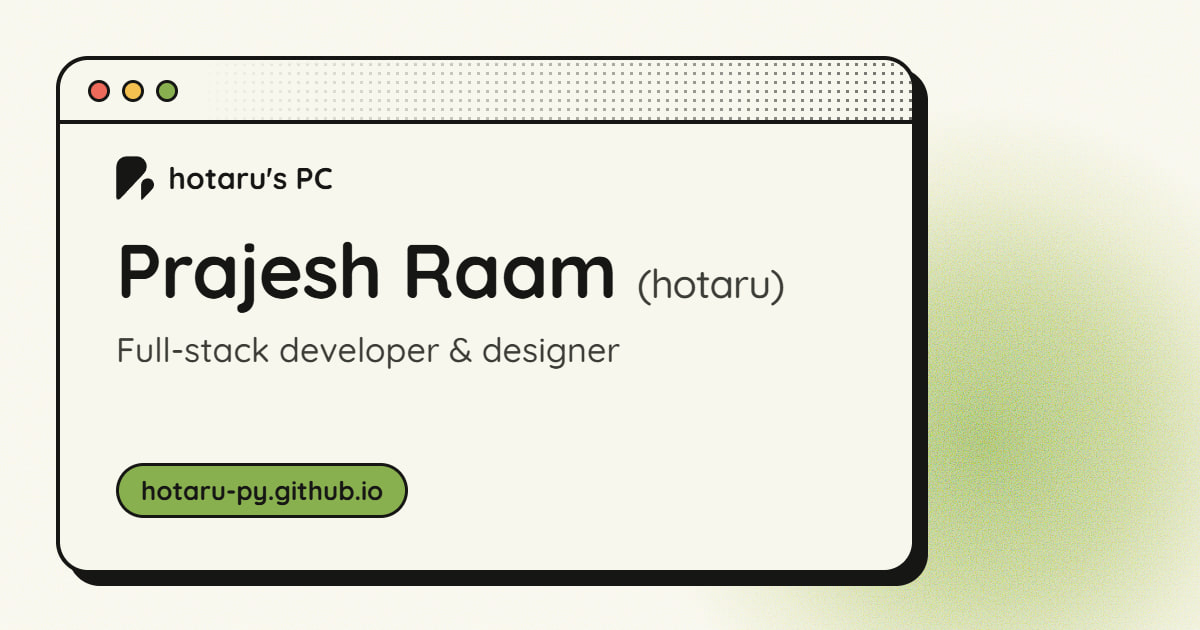
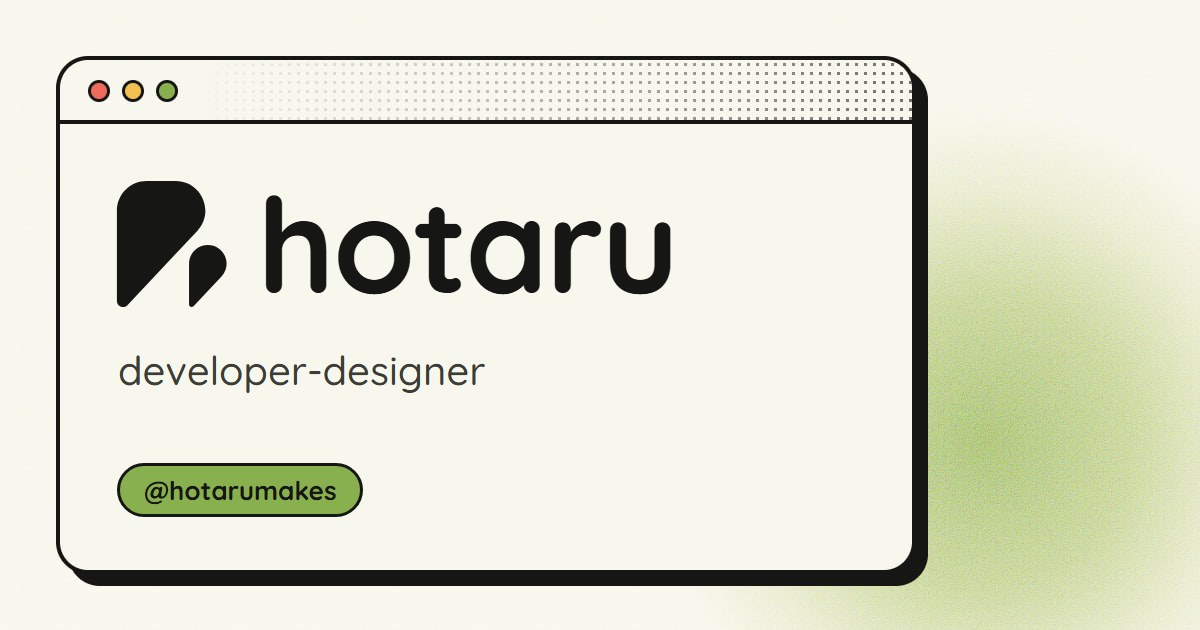
some branding changes

diff --git a/src/Components/reach.svelte b/src/Components/reach.svelte
@@ -10,6 +10,8 @@
     email: `<svg xmlns="http://www.w3.org/2000/svg" width="24" height="24" viewBox="0 0 24 24" fill="currentColor"><rect x="1" y="4" width="22" height="16" rx="3.5"/><path d="M5 8.5l7 5 7-5" fill="none" style="stroke: var(--color-paper)" stroke-width="2" stroke-linecap="round" stroke-linejoin="round"/></svg>`,
     github: `<svg xmlns="http://www.w3.org/2000/svg" width="24" height="24" viewBox="0 0 24 24" fill="currentColor"><path d="M12 0c-6.626 0-12 5.373-12 12 0 5.302 3.438 9.8 8.207 11.387.599.111.793-.261.793-.577v-2.234c-3.338.726-4.033-1.416-4.033-1.416-.546-1.387-1.333-1.756-1.333-1.756-1.089-.745.083-.729.083-.729 1.205.084 1.839 1.237 1.839 1.237 1.07 1.834 2.807 1.304 3.492.997.107-.775.418-1.305.762-1.604-2.665-.305-5.467-1.334-5.467-5.931 0-1.311.469-2.381 1.236-3.221-.124-.303-.535-1.524.117-3.176 0 0 1.008-.322 3.301 1.23.957-.266 1.983-.399 3.003-.404 1.02.005 2.047.138 3.006.404 2.291-1.552 3.297-1.23 3.297-1.23.653 1.653.242 2.874.118 3.176.77.84 1.235 1.911 1.235 3.221 0 4.609-2.807 5.624-5.479 5.921.43.372.823 1.102.823 2.222v3.293c0 .319.192.694.801.576 4.765-1.589 8.199-6.086 8.199-11.386 0-6.627-5.373-12-12-12z"/></svg>`,
     behance: `<svg xmlns="http://www.w3.org/2000/svg" width="24" height="24" viewBox="0 0 24 24" fill="currentColor"><rect width="24" height="24" rx="5"/><path transform="translate(3.6 3.6) scale(0.7)" style="fill: var(--color-paper)" d="M16.969 16.927a2.561 2.561 0 0 0 1.901.677 2.501 2.501 0 0 0 1.531-.475c.362-.235.636-.584.779-.99h2.585a5.091 5.091 0 0 1-1.9 2.896 5.292 5.292 0 0 1-3.091.88 5.839 5.839 0 0 1-2.284-.433 4.871 4.871 0 0 1-1.723-1.211 5.657 5.657 0 0 1-1.08-1.874 7.057 7.057 0 0 1-.383-2.393c-.005-.8.129-1.595.396-2.349a5.313 5.313 0 0 1 5.088-3.604 4.87 4.87 0 0 1 2.376.563c.661.362 1.231.87 1.668 1.485a6.2 6.2 0 0 1 .943 2.133c.194.821.263 1.666.205 2.508h-7.699c-.063.79.184 1.574.688 2.187ZM6.947 4.084a8.065 8.065 0 0 1 1.928.198 4.29 4.29 0 0 1 1.49.638c.418.303.748.711.958 1.182.241.579.357 1.203.341 1.83a3.506 3.506 0 0 1-.506 1.961 3.726 3.726 0 0 1-1.503 1.287 3.588 3.588 0 0 1 2.027 1.437c.464.747.697 1.615.67 2.494a4.593 4.593 0 0 1-.423 2.032 3.945 3.945 0 0 1-1.163 1.413 5.114 5.114 0 0 1-1.683.807 7.135 7.135 0 0 1-1.928.259H0V4.084h6.947Zm-.235 12.9c.308.004.616-.029.916-.099a2.18 2.18 0 0 0 .766-.332c.228-.158.411-.371.534-.619.142-.317.208-.663.191-1.009a2.08 2.08 0 0 0-.642-1.715 2.618 2.618 0 0 0-1.696-.505h-3.54v4.279h3.471Zm13.635-5.967a2.13 2.13 0 0 0-1.654-.619 2.336 2.336 0 0 0-1.163.259 2.474 2.474 0 0 0-.738.62 2.359 2.359 0 0 0-.396.792c-.074.239-.12.485-.137.734h4.769a3.239 3.239 0 0 0-.679-1.785l-.002-.001Zm-13.813-.648a2.254 2.254 0 0 0 1.423-.433c.399-.355.607-.88.56-1.413a1.916 1.916 0 0 0-.178-.891 1.298 1.298 0 0 0-.495-.533 1.851 1.851 0 0 0-.711-.274 3.966 3.966 0 0 0-.835-.073H3.241v3.631h3.293v-.017ZM21.62 5.122h-5.976v1.527h5.976V5.122Z"/></svg>`,
+    // Rounded square with the camera outline knocked out, like the other filled icons
+    instagram: `<svg xmlns="http://www.w3.org/2000/svg" width="24" height="24" viewBox="0 0 24 24" fill="currentColor"><rect width="24" height="24" rx="6"/><rect x="5" y="5" width="14" height="14" rx="4.5" fill="none" style="stroke: var(--color-paper)" stroke-width="2"/><circle cx="12" cy="12" r="3.2" fill="none" style="stroke: var(--color-paper)" stroke-width="2"/><circle cx="16.4" cy="7.6" r="1.15" style="fill: var(--color-paper)"/></svg>`,
     youtube: `<svg xmlns="http://www.w3.org/2000/svg" width="24" height="24" viewBox="0 0 24 24" fill="currentColor"><path d="M19.615 3.184c-3.604-.246-11.631-.245-15.23 0-3.897.266-4.356 2.62-4.385 8.816.029 6.185.484 8.549 4.385 8.816 3.6.245 11.626.246 15.23 0 3.897-.266 4.356-2.62 4.385-8.816-.029-6.185-.484-8.549-4.385-8.816zm-10.615 12.816v-8l8 3.993-8 4.007z"/></svg>`,
   };
 </script>
@@ -25,7 +27,7 @@
       >
         <div class="browser-row">
           <div class="browser-icon">
-            {@html ICONS[method.id]}
+            {@html ICONS[method.icon ?? method.id]}
           </div>
           <h3 class="browser-name">{method.name}</h3>
           <a

diff --git a/src/lib/siteContent.js b/src/lib/siteContent.js
@@ -6,16 +6,18 @@
 
 export const site = {
   url: "https://hotaru-py.github.io/",
-  name: "Prajesh Raam",
-  handle: "hotaru",
-  title: "Prajesh Raam, full-stack developer & designer",
+  name: "hotaru",
+  handle: "hotarumakes",
+  title: "hotaru | i make stuff that looks good (to me)",
   description:
-    "Portfolio of Prajesh Raam (hotaru): full-stack developer, designer and artist. Live websites, personal projects, skills and links, presented as a playful desktop or a simple text page.",
+    "Portfolio of hotaru: full-stack developer, designer and artist. Live websites, personal projects, skills and links, presented as a playful desktop or a simple text page.",
   jobTitle: "Full-stack developer & designer",
 };
 
 export const about = {
-  greeting: "Hello, I'm Prajesh (^_^)/",
+  greeting: "Hello, I'm hotaru (^_^)/",
+  // Shown under the greeting
+  realName: "Prajesh Raam",
   pronouns: "he/him",
   intro: [
     "I'm an engineer by day, designer by night, artist throughout. Currently an undergrad engineering student and a full-stack developer.",
@@ -179,23 +181,34 @@ export const projects = [
   },
 ];
 
-// `id` picks the icon in the Browser window
+// `id` picks the icon in the Browser window (or `icon`, when two share one)
 export const bookmarks = [
+  {
+    id: "youtube",
+    name: "YouTube Channel (this stuff)",
+    url: "https://www.youtube.com/@hotarumakes",
+  },
+  {
+    id: "instagram",
+    name: "Instagram",
+    url: "https://www.instagram.com/hotarumakes",
+  },
   {
     id: "linkedin",
     name: "LinkedIn",
-    url: "https://linkedin.com/in/prajesh-raam",
+    url: "https://linkedin.com/in/prajeshraam",
   },
-  { id: "email", name: "Email", url: "mailto:prajeshraam@gmail.com" },
   { id: "github", name: "GitHub", url: "https://github.com/hotaru-py" },
   {
     id: "behance",
     name: "Behance",
     url: "https://www.behance.net/prajeshraam",
   },
+  { id: "email", name: "Email", url: "mailto:hotarumakes@gmail.com" },
   {
-    id: "youtube",
-    name: "YouTube (random stuff)",
+    id: "youtube-random",
+    icon: "youtube",
+    name: "YouTube Channel (random stuff)",
     url: "https://www.youtube.com/@hotaruuuh",
   },
 ];

diff --git a/src/lib/staticSite.js b/src/lib/staticSite.js
@@ -86,7 +86,7 @@ function structuredData() {
 
 export function renderHeadTags() {
   const image = absolute(OG_IMAGE);
-  const imageAlt = `${site.name} (${site.handle}), ${site.jobTitle}`;
+  const imageAlt = `${site.name}: developer-designer portfolio`;
   // "<" escaped so the JSON can never close the script tag early
   const jsonLd = JSON.stringify(structuredData()).replaceAll("<", "\\u003c");
   return [
@@ -121,12 +121,12 @@ export function renderStaticPage() {
   const li = (html) => `<li>${html}</li>`;
   const html = [
     `<header>`,
-    `<h1>${esc(site.name)} (${esc(site.handle)})</h1>`,
+    `<h1>${esc(site.name)} (${esc(about.realName)})</h1>`,
     `<p>${esc(site.jobTitle)}</p>`,
     `</header>`,
 
     `<section><h2>About</h2>`,
-    `<p>${esc(about.greeting)} (${esc(about.pronouns)})</p>`,
+    `<p>${esc(about.greeting)} (${esc(about.pronouns)})<br />${esc(about.realName)}</p>`,
     ...about.intro.map((p) => `<p>${esc(p)}</p>`),
     `<ul>${about.interests.map((item) => li(richHtml(item))).join("")}</ul>`,
     `<p>${esc(about.outro)}</p>`,
@@ -205,7 +205,7 @@ ${html}
 
 export function renderLlmsTxt() {
   const lines = [
-    `# ${site.name} (${site.handle})`,
+    `# ${site.name} (${about.realName})`,
     "",
     `> ${site.description}`,
     "",

diff --git a/src/Components/Desktop/Desktop.svelte b/src/Components/Desktop/Desktop.svelte
@@ -87,8 +87,8 @@
 
   // --- First thing on screen ---------------------------------------------------
   // Desktops open About Me just right of the first icon column, its top in line with
-  // the first icon; phones get a bubble pointing at
-  // its dock icon instead (once per visit, until it's tapped or About is opened).
+  // the first icon. Phones never open it: the first time the phone desktop is shown in a
+  // visit, a bubble points at its dock icon instead (not again after Switch User).
   const INTRO_MARGIN = 24;
   // The icon grid's margin (24) + icon width (88) + a gap
   const INTRO_LEFT = 24 + 88 + 24;
@@ -102,9 +102,12 @@
     if (!booted || introDone || !desktopWidth || !desktopHeight) return;
     introDone = true;
     untrack(() => {
-      if (isMobileView) {
+      // Read straight from the viewport, so a remount (e.g. back from Switch User)
+      // can't catch isMobileView before it's been set
+      if (window.matchMedia("(max-width: 768px)").matches) {
         try {
           showAboutTip = !sessionStorage.getItem(TIP_SEEN_KEY);
+          sessionStorage.setItem(TIP_SEEN_KEY, "1");
         } catch {
           showAboutTip = true;
         }

diff --git a/src/Components/Desktop/Taskbar.svelte b/src/Components/Desktop/Taskbar.svelte
@@ -15,7 +15,7 @@
    * @property {any} [currentTime]
    * @property {(windowId: any) => void} [onActivateWindow]
    * @property {(windowId: any) => void} [onMinimizeWindow]
-   * @property {(icon: any) => void} [onOpenWindow]
+   * @property {(icon: any, options?: { quiet?: boolean }) => void} [onOpenWindow]
    * @property {boolean} [showReset] Only offered once the icons have been moved
    * @property {() => void} [onResetLayout]
    * @property {() => void} [onSwitchUser] Goes back to the login screen to pick a mode
@@ -99,8 +99,10 @@
     onSwitchUser?.();
   }
 
+  // Start menu picks tick instead of playing the window-open click
   function openWindow(iconData) {
-    onOpenWindow?.(iconData);
+    playSound("tactile", 0.1);
+    onOpenWindow?.(iconData, { quiet: true });
     isStartMenuOpen = false;
   }
 

diff --git a/src/Components/SimpleMode.svelte b/src/Components/SimpleMode.svelte
@@ -49,7 +49,7 @@
   <main class="page">
     <header>
       <h1>
-        <span class="mark" aria-hidden="true">{"# "}</span>{site.name} ({site.handle})
+        <span class="mark" aria-hidden="true">{"# "}</span>{site.name} ({about.realName})
       </h1>
       <p class="tagline">{site.jobTitle}</p>
       <nav aria-label="Sections">
@@ -64,7 +64,8 @@
     <section id="about">
       <h2><span class="mark" aria-hidden="true">{"## "}</span>About</h2>
       <p>
-        {about.greeting} <span class="muted">({about.pronouns})</span>
+        {about.greeting} <span class="muted">({about.pronouns})</span><br />
+        <span class="muted">{about.realName}</span>
       </p>
       {#each about.intro as paragraph}
         <p>{paragraph}</p>

diff --git a/src/Components/about.svelte b/src/Components/about.svelte
@@ -13,9 +13,12 @@
 <div class="about-container">
   <div class="about-header">
     <img src={avatar} alt="Hotaru" class="about-avatar" />
-    <h1 class="about-title">
-      {about.greeting} <span class="pronouns">({about.pronouns})</span>
-    </h1>
+    <div>
+      <h1 class="about-title">
+        {about.greeting} <span class="pronouns">({about.pronouns})</span>
+      </h1>
+      <p class="about-name">{about.realName}</p>
+    </div>
   </div>
 
   <div class="about-content">
@@ -105,6 +108,13 @@
     font-size: 14px;
     color: var(--color-ink-muted);
     margin-top: 4px;
+  }
+
+  .about-name {
+    margin: 2px 0 0;
+    font-size: 15px;
+    font-weight: 600;
+    color: var(--color-ink-muted);
   }
 
   .highlight {
